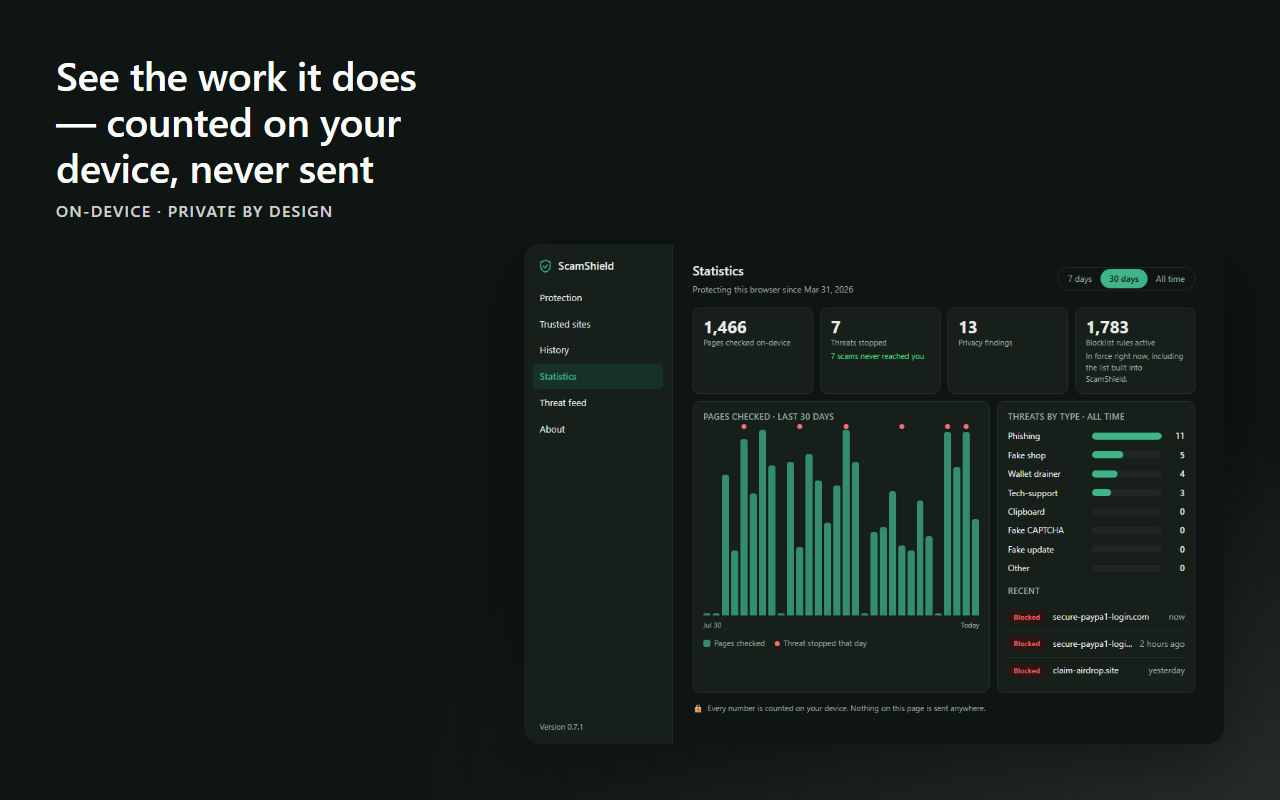
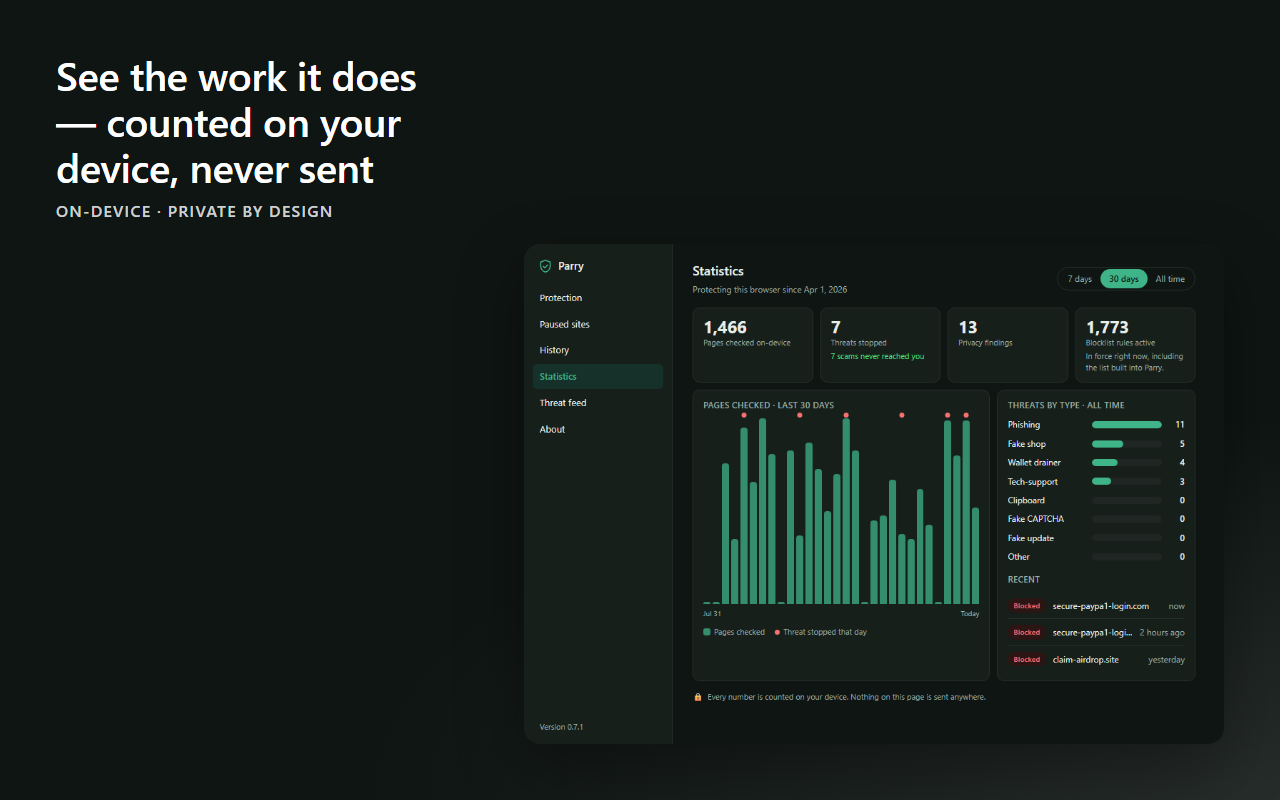
docs(store): 0.8.0 Parry screenshots and promo tiles

diff --git a/tools/screenshots.js b/tools/screenshots.js
@@ -92,8 +92,33 @@ const sleep = (ms) => new Promise((r) => setTimeout(r, ms));
     // popup's own extension-page tab as "active" and report a false "safe".
     await p.goto(`chrome-extension://${id}/popup.html`); await contentPage.bringToFront(); await p.reload(); await sleep(700);
     if (after) await after(p);
-    const h = await p.evaluate(() => document.body.scrollHeight); await p.setViewportSize({ width: 340, height: Math.min(600, h) });
-    const png = await p.screenshot(); await p.close(); if (theme) await sw.evaluate(() => setSettings({ theme: 'auto' })); return { png, w: 340, h: Math.min(600, h) };
+    const full = await p.evaluate(() => document.body.scrollHeight);
+    let h = Math.min(600, full);
+    if (full > 600) {
+      // 0.8.0 grew the popup (hero counters, why-this-verdict panel, rotating
+      // footer) past the 600px cap popup.css puts on <body> (real installs
+      // scroll for it — see tests/e2e/popup.spec.js). A static store shot
+      // can't scroll, and stopping the capture at a flat 600px lands mid-tile
+      // or mid-footer, which reads as broken rather than "scrollable". Stop
+      // instead at the lowest *complete* top-level section so the shot always
+      // ends on a clean edge.
+      h = await p.evaluate((cap) => {
+        const els = document.querySelectorAll('body > *, main > *, footer > *');
+        let best = 0;
+        for (const el of els) {
+          // Skip anything not in normal document flow (the #toast notification
+          // is position:fixed/opacity:0 off in a corner regardless of scroll
+          // position — it is not a content boundary) and anything hidden.
+          if (el.hidden || getComputedStyle(el).position === 'fixed') continue;
+          const rect = el.getBoundingClientRect();
+          if (rect.height <= 0 || rect.bottom > cap) continue;
+          if (rect.bottom > best) best = rect.bottom;
+        }
+        return Math.round(best) || cap;
+      }, 600);
+    }
+    await p.setViewportSize({ width: 340, height: h });
+    const png = await p.screenshot(); await p.close(); if (theme) await sw.evaluate(() => setSettings({ theme: 'auto' })); return { png, w: 340, h };
   }
   console.log('Capturing…');
   // 1 popup on a dangerous look-alike page — served from the mapped

diff --git a/store/screenshots/README.md b/store/screenshots/README.md
@@ -22,8 +22,16 @@ Do not hand-edit the PNGs below — re-run the script instead.
 5. `05-wallet-guard.png` — wallet-drainer overlay blocking a fake "Connect &
    Claim" flow ("Stops wallet drainers and scare pop-ups").
 
-Captured against the 0.7.1 popup/options UI (globe language switcher in the
-popup header, Statistics dashboard). Re-run `npm run screenshots` after any
-visual change to popup/options/in-page UI and commit the refreshed PNGs.
-`npm run promo` re-crops `01-popup-dangerous.png` into the marquee tile, so run
-it too when that shot changes.
+Captured against the 0.8.0 popup/options UI (Parry rebrand and icon,
+time-boxed pause menu, hero counters, "Why this verdict?" panel, rotating
+footer). Re-run `npm run screenshots` after any visual change to
+popup/options/in-page UI and commit the refreshed PNGs. `npm run promo`
+re-crops `01-popup-dangerous.png` into the marquee tile, so run it too when
+that shot changes.
+
+The popup's `<body>` caps itself at 600px tall and scrolls internally past
+that (see `popup.css`) — 0.8.0's extra sections (hero counters, why-panel,
+footer) push the full popup taller than that on the dangerous-page and
+language-picker shots. `tools/screenshots.js`'s `popupShot()` handles this by
+capturing up to the lowest *complete* top-level section that still fits in
+600px, rather than a flat 600px cut that would land mid-tile or mid-footer.
